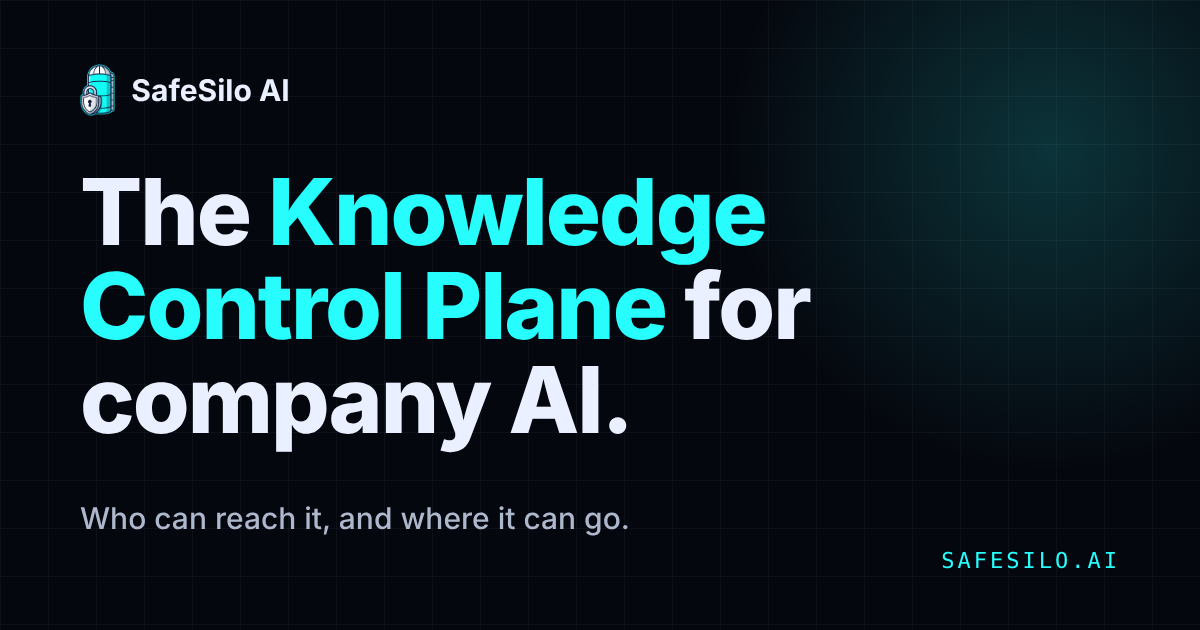
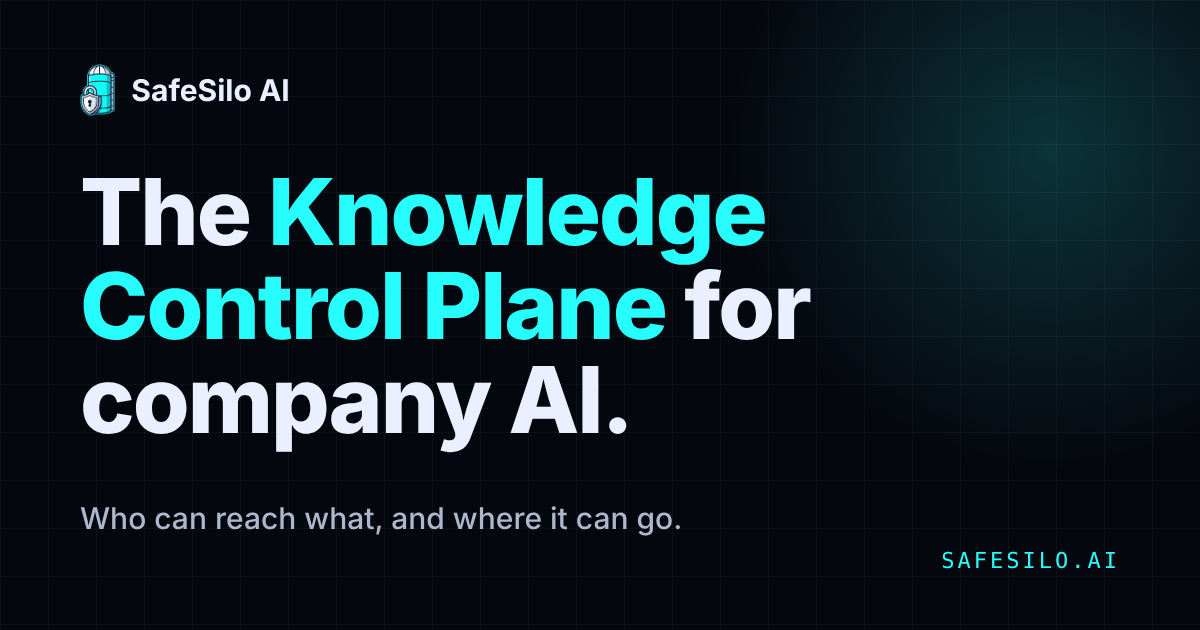
Change tagline to 'who can reach what'
Claude-Session: https://claude.ai/code/session_019BCGGRozSEXKsJ2YnmoRgp

Changed region(s): [[0.2467, 0.8143, 0.5858, 0.8444]]

diff --git a/index.html b/index.html
@@ -228,7 +228,7 @@
   <div class="wrap">
     <p class="eyebrow">Get your control plane</p>
     <h2>See your Knowledge Control Plane live.</h2>
-    <p class="lead">Show us your org chart. 30 minutes with the founder, and we'll map who can reach your data and where it can go, live.</p>
+    <p class="lead">Show us your org chart. 30 minutes with the founder, and we'll map who can reach what, and where it can go, live.</p>
     <div class="cta-row" style="margin-bottom:0">
       <a href="https://cal.com/kdplyd/30min" target="_blank" rel="noopener" class="btn btn-primary">Book a Demo <span>→</span></a>
     </div>
